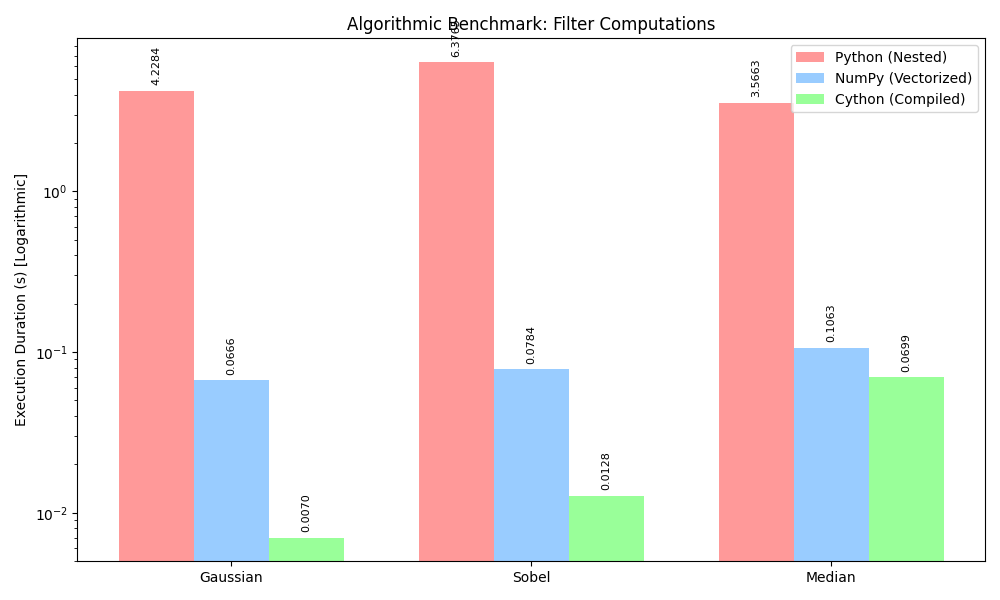
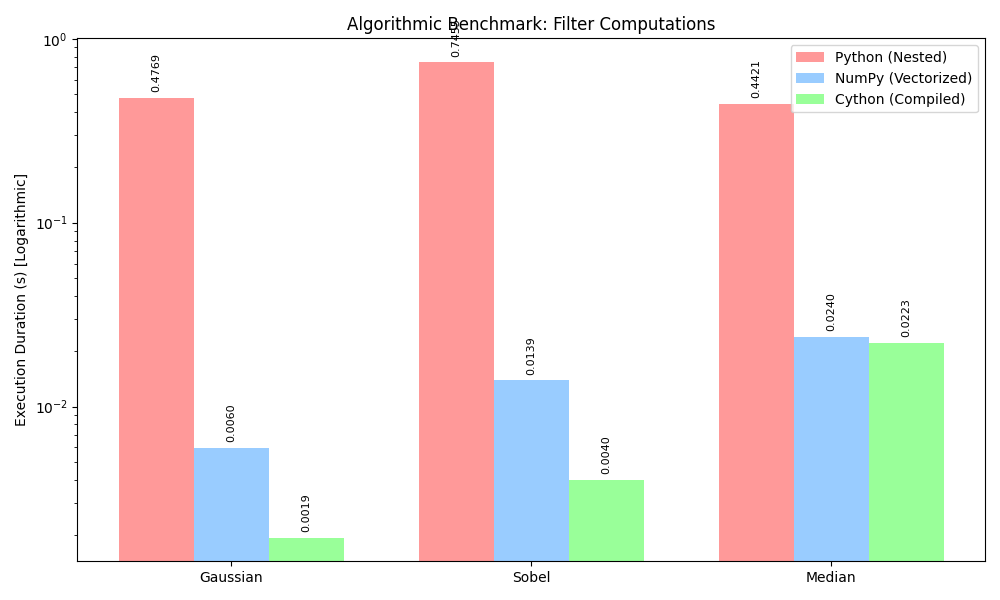
..

diff --git a/docs/Performance_Analysis.md b/docs/Performance_Analysis.md
@@ -15,9 +15,9 @@ This repository isolates computational logic distinctively:
 
 | Filter Type | Python (Native) | NumPy (Vectors) | Cython (C-Compiled) |
 |-------------|-----------------|-----------------|---------------------|
-| **Gaussian**| 4.2284         s| 0.0666         s| 0.0070             s|
-| **Sobel**   | 6.3765         s| 0.0784         s| 0.0128             s|
-| **Median**  | 3.5663         s| 0.1063         s| 0.0699             s|
+| **Gaussian**| 0.4769         s| 0.0060         s| 0.0019             s|
+| **Sobel**   | 0.7455         s| 0.0139         s| 0.0040             s|
+| **Median**  | 0.4421         s| 0.0240         s| 0.0223             s|
 
 **Logarithmic Benchmark Visualization:**
 ![Performance Benchmark Chart](../data/processed/Algorithm_Benchmark_Chart.png)
